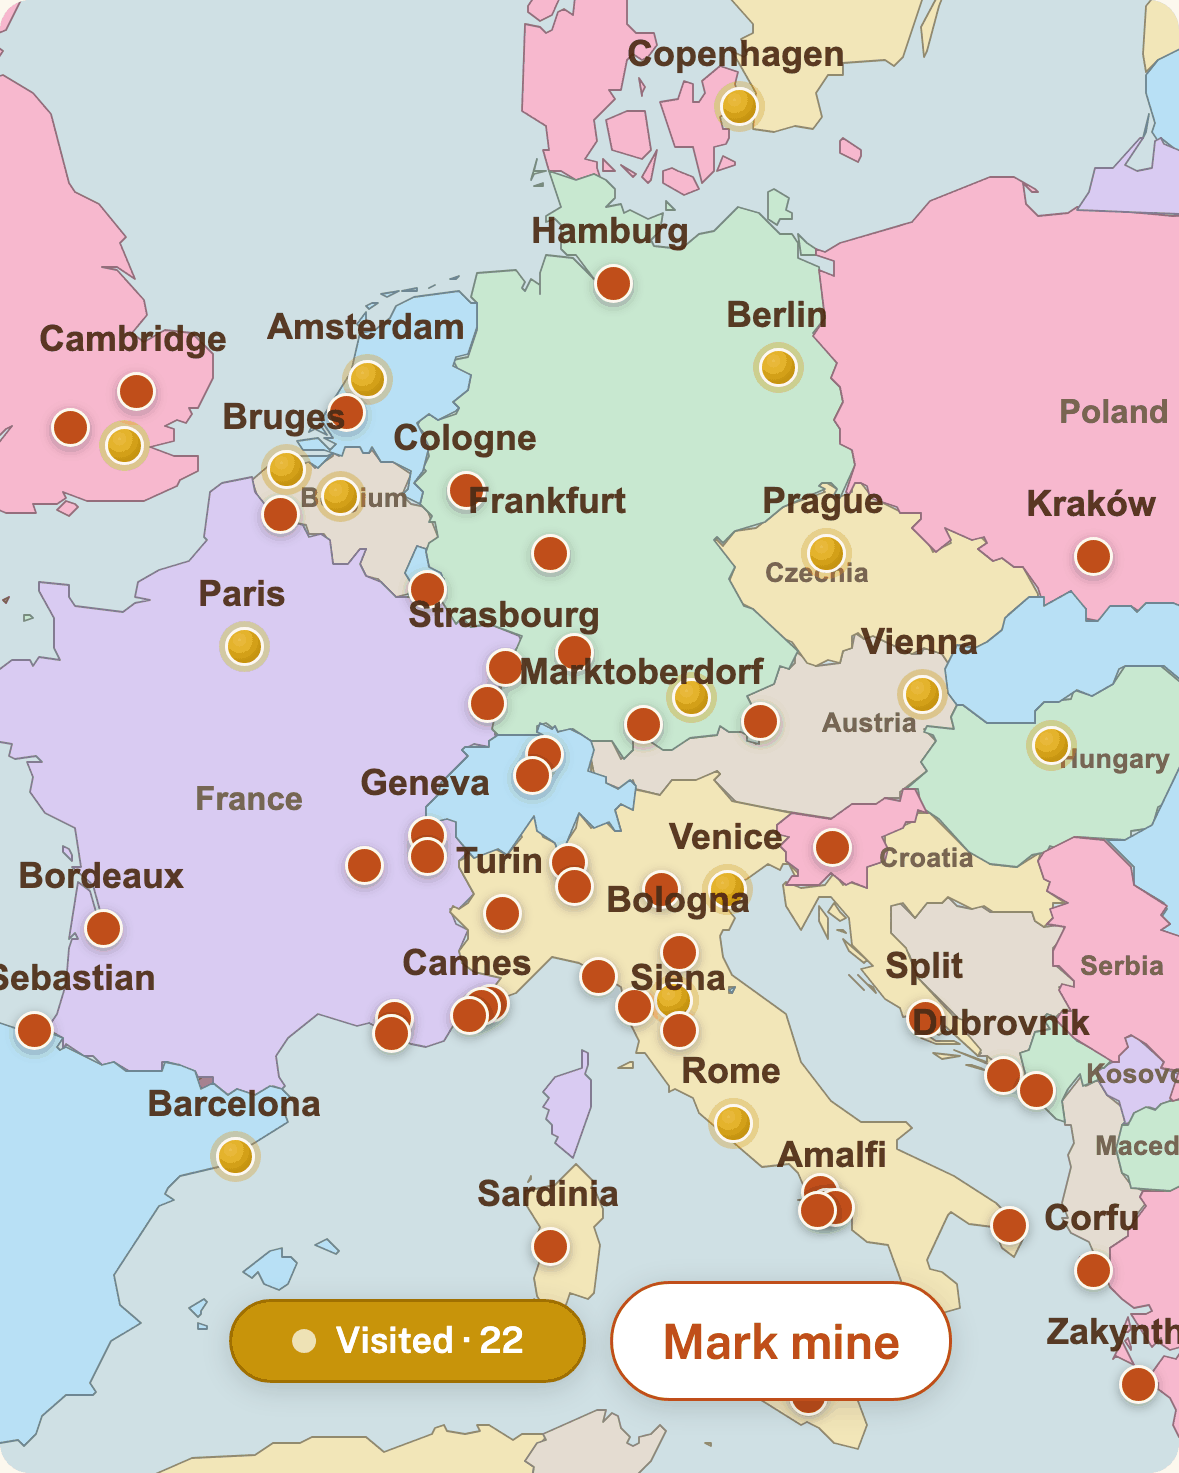
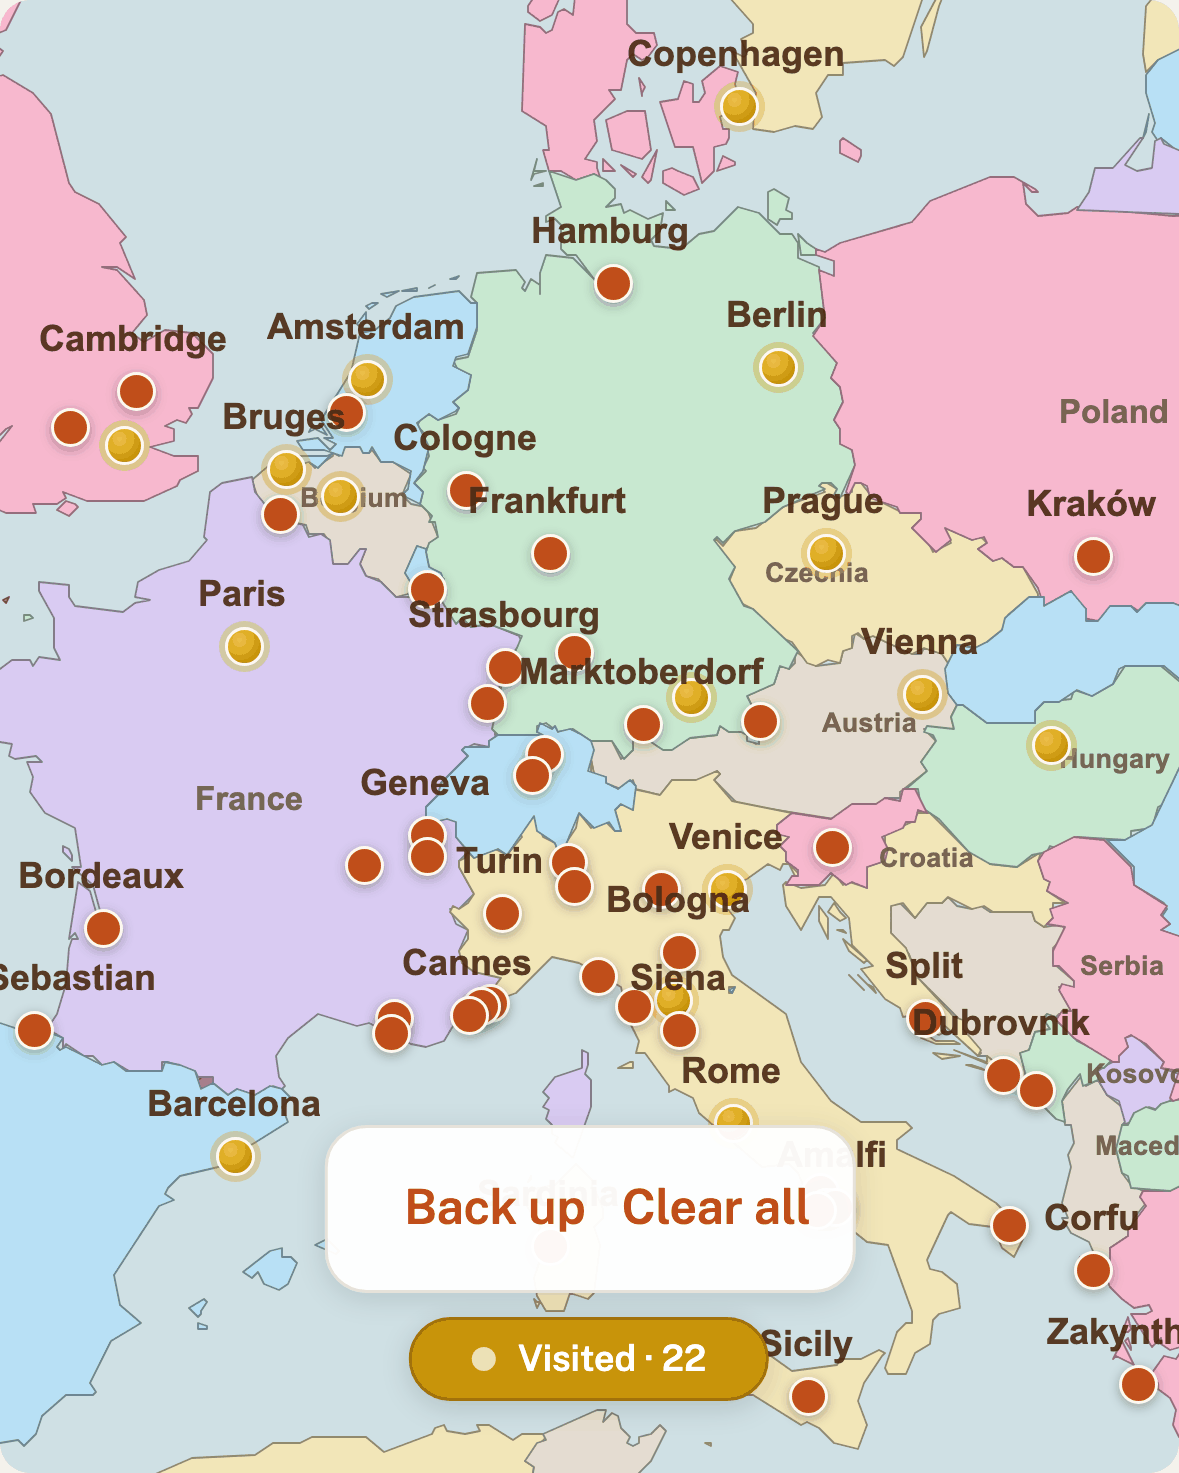
world map: Mark mine is gone — marking is the guide's I've Been pill, and the list backs up to a link

Changed region(s): [[0.1832, 0.7495, 0.8244, 0.9681]]

diff --git a/Travel-Website/maps/world/index.html b/Travel-Website/maps/world/index.html
@@ -195,14 +195,23 @@ function beenCount() {
   } catch (e) {}
   return n;
 }
-window.markMode = false;
+/* MARKING HAPPENS ON THE GUIDE, NOT HERE (owner rule 2026-08-17).
+   The map used to carry a "Mark mine" mode: turn it on and a pin tap recorded
+   the city instead of opening its guide. It is gone, and it does not come back.
+   The reader marks a place with the I've Been pill on that place's guide, as
+   they read it — one gesture, in the one place where they have just decided
+   they have been there. Two ways to mark meant a pin tap did different things
+   depending on a mode the reader had set minutes earlier, and it silently took
+   away the map's only real job: tap a pin, read the guide.
 
+   So this page now DISPLAYS the list and manages it as a whole (back up,
+   restore, clear). It never edits a single city. */
 function beenPaintCount() {
   var el = document.getElementById('visited-pill-count');
   var n = beenCount();
   if (el) el.textContent = n ? 'Visited · ' + n : 'Visited';
-  var clr = document.getElementById('mine-clear');
-  if (clr) clr.style.display = n ? '' : 'none';
+  var bar = document.getElementById('mine-hint');
+  if (bar) bar.style.display = n ? 'flex' : 'none';
 }
 
 function toggleVisitedMobile(btn) {
@@ -215,19 +224,82 @@ function toggleVisitedMobile(btn) {
   if (window.applyVisitedFilter) window.applyVisitedFilter(on);
 }
 
-/* Mark mode: while on, a pin tap records the city instead of opening its
-   guide. Off is the default, so the ordinary "tap a pin, read the guide"
-   behaviour is untouched for anyone who never turns this on. */
-function toggleMarkMode(btn) {
-  window.markMode = btn.getAttribute('data-on') !== '1';
-  btn.setAttribute('data-on', window.markMode ? '1' : '0');
-  btn.style.background = window.markMode ? '#C04E1A' : '#fff';
-  btn.style.color = window.markMode ? '#fff' : '#C04E1A';
-  var hint = document.getElementById('mine-hint');
-  if (hint) hint.style.display = window.markMode ? 'flex' : 'none';
-  /* Marking with the gold display off would give no feedback at all. */
-  var vm = document.getElementById('visited-pill-mobile');
-  if (window.markMode && vm && vm.getAttribute('data-on') !== '1') toggleVisitedMobile(vm);
+/* ── Back up and restore ─────────────────────────────────────────────────────
+   The list is localStorage: this browser, this device, no account behind it.
+   That is a deliberate trade (no sign-in), but it means the list can go —
+   iOS Safari evicts a site's storage after roughly a week of not opening it
+   unless the site is on the Home Screen, and "Clear History and Website Data"
+   takes it outright. A reader who has marked eighty places has no way back.
+
+   THE BACKUP IS A LINK, NOT A FILE, and that is the whole design. A file has
+   to be saved somewhere and then found again — on a phone that is the worst
+   possible shape for a backup, and it is the same objection the owner raised
+   about the calendar export: "i should not need to save in my disk first."
+   A link is pasted into a note, sent to yourself, or bookmarked, and opening
+   it anywhere restores the list — which also makes it the transfer between
+   two devices, for free. It reuses the #seed-mine hash pattern already here.
+
+   Slugs go in bare and the '.html' is re-added on the way back in, because it
+   is on every one of them and it is a quarter of the length of the URL. */
+function mineSlugs() {
+  var out = [];
+  try {
+    for (var i = 0; i < localStorage.length; i++) {
+      var k = localStorage.key(i) || '';
+      if (k.indexOf(BEEN_PREFIX) === 0) out.push(k.slice(BEEN_PREFIX.length).replace(/\.html$/, ''));
+    }
+  } catch (e) {}
+  return out.sort();
+}
+
+function mineLink() {
+  return location.origin + location.pathname + '#mine=' + mineSlugs().join(',');
+}
+
+/* Restores from a #mine= hash. ADDS to whatever is already marked rather than
+   replacing it — a reader opening their backup on a second device would
+   otherwise lose whatever they had marked on that device. Clear all is there
+   for the reader who actually wants to start over. */
+function restoreMine() {
+  var m = /^#mine=(.*)$/.exec(location.hash || '');
+  if (!m) return 0;
+  var n = 0;
+  m[1].split(',').forEach(function (s) {
+    s = decodeURIComponent(s).trim().toLowerCase();
+    if (!s) return;
+    if (!/\.html$/.test(s)) s += '.html';
+    if (!beenHas(s)) { beenSet(s, true); n++; }
+  });
+  history.replaceState(null, '', location.pathname + location.search);
+  return n;
+}
+
+/* Transient only — the slot is empty at rest, so the bar returns to hugging
+   its two buttons rather than holding a sentence nobody needs twice. */
+function mineSay(msg) {
+  var el = document.getElementById('mine-hint-text');
+  if (!el) return;
+  el.textContent = msg;
+  clearTimeout(mineSay._t);
+  mineSay._t = setTimeout(function () { el.textContent = ''; }, 5000);
+}
+
+function backupMine() {
+  var link = mineLink();
+  var n = mineSlugs().length;
+  /* The clipboard API needs a secure context and a permission that a phone
+     may refuse, so the field is filled either way — a reader who gets no
+     clipboard still has the link on screen to copy by hand, rather than a
+     button that silently did nothing. */
+  var box = document.getElementById('mine-link');
+  if (box) { box.value = link; box.style.display = 'block'; box.select(); }
+  var done = function () { mineSay('Link copied — ' + n + ' places. Save it somewhere.'); };
+  var fell = function () { mineSay('Copy the link below — ' + n + ' places.'); };
+  try {
+    if (navigator.clipboard && navigator.clipboard.writeText) {
+      navigator.clipboard.writeText(link).then(done, fell);
+    } else if (box && document.execCommand('copy')) { done(); } else { fell(); }
+  } catch (e) { fell(); }
 }
 
 function clearMine() {
@@ -262,15 +334,31 @@ if (location.hash === '#seed-mine') {
 <div id="wrap">
   <div id="map" role="application" aria-label="Interactive world map of guide destinations"></div>
   <div id="map-mine" style="position:fixed;bottom:24px;left:50%;transform:translateX(-50%);z-index:1100;display:flex;flex-direction:column;align-items:center;gap:8px;">
-    <div id="mine-hint" style="display:none;align-items:center;gap:10px;background:rgba(255,255,255,0.96);border:1px solid #e6e2da;border-radius:14px;padding:6px 14px;font-size:12px;color:#6a6660;box-shadow:0 2px 10px rgba(0,0,0,0.12);white-space:nowrap;">
-      <span>Tap a city to mark it. Tap again to clear.</span>
-      <button id="mine-clear" onclick="clearMine()" style="display:none;border:none;background:none;padding:0;font:inherit;font-size:12px;font-weight:600;color:#C04E1A;cursor:pointer;">Clear all</button>
+    <!-- Shows only once something is marked, so a first-time reader sees just
+         the map and the Visited pill. Marking itself is not here — it is the
+         I've Been pill on each guide. -->
+    <!-- The bar HUGS ITS BUTTONS at rest and carries no standing sentence.
+         The instruction that used to sit here — "mark places with I've Been on
+         each guide" — is permanent text explaining a control that is on a
+         different page, and at 393px it pushed the bar to the full width of
+         the map and still ellipsised itself. The left slot is now empty until
+         a confirmation fires, so the bar grows only while it has something to
+         say. Where marking happens is said on the landing tile instead. -->
+    <div id="mine-hint" style="display:none;flex-direction:column;align-items:stretch;gap:6px;background:rgba(255,255,255,0.96);border:1px solid #e6e2da;border-radius:14px;padding:7px 14px;font-size:12px;color:#6a6660;box-shadow:0 2px 10px rgba(0,0,0,0.12);max-width:min(92vw,420px);">
+      <div style="display:flex;align-items:center;gap:12px;white-space:nowrap;justify-content:flex-end;">
+        <span id="mine-hint-text" style="flex:1 1 auto;min-width:0;overflow:hidden;text-overflow:ellipsis;"></span>
+        <button id="mine-backup" onclick="backupMine()" style="border:none;background:none;padding:0;font:inherit;font-size:12px;font-weight:600;color:#C04E1A;cursor:pointer;flex:0 0 auto;">Back up</button>
+        <button id="mine-clear" onclick="clearMine()" style="border:none;background:none;padding:0;font:inherit;font-size:12px;font-weight:600;color:#C04E1A;cursor:pointer;flex:0 0 auto;">Clear all</button>
+      </div>
+      <!-- Filled by Back up. Kept in the DOM so execCommand('copy') has a real
+           field to select when the clipboard API is unavailable. -->
+      <input id="mine-link" type="text" readonly value="" onclick="this.select()"
+             style="display:none;width:100%;box-sizing:border-box;border:1px solid #e6e2da;border-radius:8px;padding:5px 8px;font:inherit;font-size:11px;color:#6a6660;background:#faf8f4;">
     </div>
     <div style="display:flex;align-items:center;gap:8px;">
       <button id="visited-pill-mobile" onclick="toggleVisitedMobile(this)" style="background:#fdf5d8;border:1.5px solid #d8c87a;border-radius:20px;height:28px;padding:0 16px;font-size:12px;font-weight:600;color:#7a6000;cursor:pointer;font-family:inherit;align-items:center;gap:7px;box-shadow:0 2px 10px rgba(0,0,0,0.15);white-space:nowrap;" aria-label="Show the cities you have marked">
         <span style="width:8px;height:8px;border-radius:50%;background:#c8940a;flex-shrink:0;display:inline-block;"></span> <span id="visited-pill-count">Visited</span>
       </button>
-      <button id="mark-pill" onclick="toggleMarkMode(this)" style="display:flex;align-items:center;background:#fff;border:1.5px solid #C04E1A;border-radius:20px;height:28px;padding:0 16px;font-size:12px;font-weight:600;color:#C04E1A;cursor:pointer;font-family:inherit;box-shadow:0 2px 10px rgba(0,0,0,0.15);white-space:nowrap;" aria-label="Mark the cities you have visited">Mark mine</button>
     </div>
   </div>
   <button id="map-back-btn" onclick="history.back()" style="display:none;position:fixed;top:72px;right:16px;z-index:1100;background:#ffffff;border:1.5px solid #C04E1A;border-radius:10px;padding:9px 18px;font-size:13px;font-weight:700;color:#C04E1A;cursor:pointer;box-shadow:0 2px 8px rgba(0,0,0,0.10);align-items:center;gap:6px;" aria-label="Go back">← Back</button>
@@ -1262,10 +1350,9 @@ function buildPins() {
       className: 'pin-name-tip', interactive: false,
     });
     const href = p[3];
-    m.on('click', () => {
-      if (window.markMode) { window.toggleBeen(p[0], beenSlug(p[3])); return; }
-      (window.top || window).location.href = href;
-    });
+    /* One behaviour, always: a pin opens its guide. There is no mode that
+       makes this do something else — see the note on beenPaintCount. */
+    m.on('click', () => { (window.top || window).location.href = href; });
     pinCluster.addLayer(m);
     pinMarkers.push(m);
     markersByName[p[0]] = m;
@@ -1283,25 +1370,28 @@ function buildPins() {
     beenPaintCount();
   };
 
-  /* Called by a pin click while Mark mine is on. Repaints one marker rather
-     than the whole set — marking is a rapid-fire action and a full repaint of
-     240 pins per tap is visible. */
-  window.toggleBeen = function(name, slug) {
-    const m = markersByName[name];
-    if (!m || !slug) return;
-    const now = !beenHas(slug);
-    beenSet(slug, now);
-    m.setIcon(now ? beenIcon : pinIcon);
-    beenPaintCount();
-    renderPinLabels();
-  };
-
   if (window.SEED_NAMES) {
     const slugByName = {};
     PINS.forEach(p => { slugByName[p[0]] = beenSlug(p[3]); });
     window.SEED_NAMES.forEach(n => { if (slugByName[n]) beenSet(slugByName[n], true); });
     window.SEED_NAMES = null;
     window.applyVisitedFilter(true);
+  }
+
+  /* A restored list is painted gold immediately, and the count says how many
+     landed — arriving at a map that looks unchanged is indistinguishable from
+     a link that did not work. Runs after the pins exist so the repaint has
+     something to repaint. */
+  const restored = restoreMine();
+  if (restored) {
+    window.applyVisitedFilter(true);
+    const vm = document.getElementById('visited-pill-mobile');
+    if (vm) vm.setAttribute('data-on', '1');
+    if (vm) { vm.style.background = '#c8940a'; vm.style.color = '#fff'; vm.style.borderColor = '#a07000'; }
+    const dot = vm && vm.querySelector('span');
+    if (dot) dot.style.background = 'rgba(255,255,255,0.7)';
+    beenPaintCount();
+    mineSay('Restored ' + restored + ' place' + (restored === 1 ? '' : 's') + ' to this browser.');
   }
   beenPaintCount();
 

diff --git a/Travel-Website/sw.js b/Travel-Website/sw.js
@@ -1454,7 +1454,8 @@
 /* 2026-08-17: phone: a world-map tile on the landing page — gold pins for what the reader has marked toolbar.js -> v727. CACHE to v1020. */
 /* 2026-08-17: plugs: one researched pass over the 40 countries where the plug page and Before-You-Go contradicted each other — both now carry the same sourced type set, and the guides' Quick Facts plug chip follows toolbar.js -> v728. CACHE to v1021. */
 /* 2026-08-17: currency: rates refreshed to 17 August and every jump on /currencies/ made instant — the page is precached, so readers need the new copy toolbar.js -> v729. CACHE to v1022. */
-var CACHE = 'travel-cache-v1022';
+/* 2026-08-17: world map: marking moves to the guide's I've Been pill; the list gets a back-up link toolbar.js -> v730. CACHE to v1023. */
+var CACHE = 'travel-cache-v1023';
 
 /* Minimum asset versions — any request with a lower v= is rewritten to this version
    so the browser is forced to fetch fresh content even when it has an older copy
@@ -1462,7 +1463,7 @@ var CACHE = 'travel-cache-v1022';
    THIS IS THE ONLY PLACE to bump toolbar.js / guide-style.css versions.
    NEVER bump ?v= inside guide HTML — it breaks HMAC stamps and forces re-validation
    of 230+ guides. Instead, bump MIN_VERSIONS here + increment the CACHE version. */
-var MIN_VERSIONS = { 'guide-style.css': 227,'toolbar.js': 729, 'mobile.css': 85, 'web-travel-style.css': 57, 'guides-index-style.css': 12, 'read-about.css': 6, 'best-of-features.js': 1, 'best-of-cross-data.js': 19, 'weather.js': 8, 'trains.css': 3, 'trains.js': 1 };
+var MIN_VERSIONS = { 'guide-style.css': 227,'toolbar.js': 730, 'mobile.css': 85, 'web-travel-style.css': 57, 'guides-index-style.css': 12, 'read-about.css': 6, 'best-of-features.js': 1, 'best-of-cross-data.js': 19, 'weather.js': 8, 'trains.css': 3, 'trains.js': 1 };
 
 function rewriteAssetUrl(urlStr) {
   var u;
